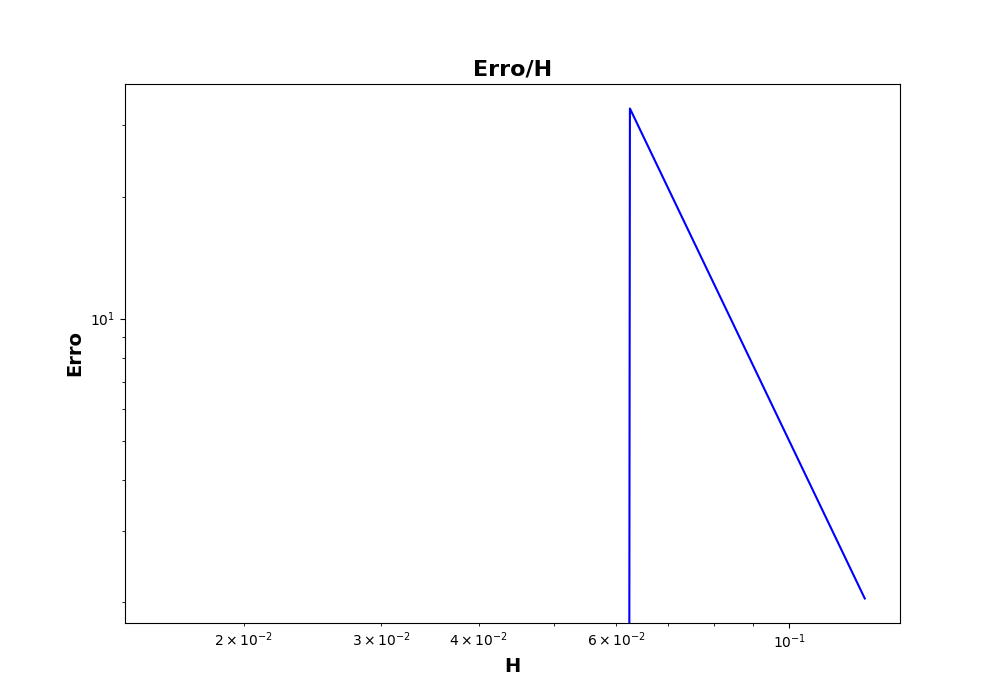
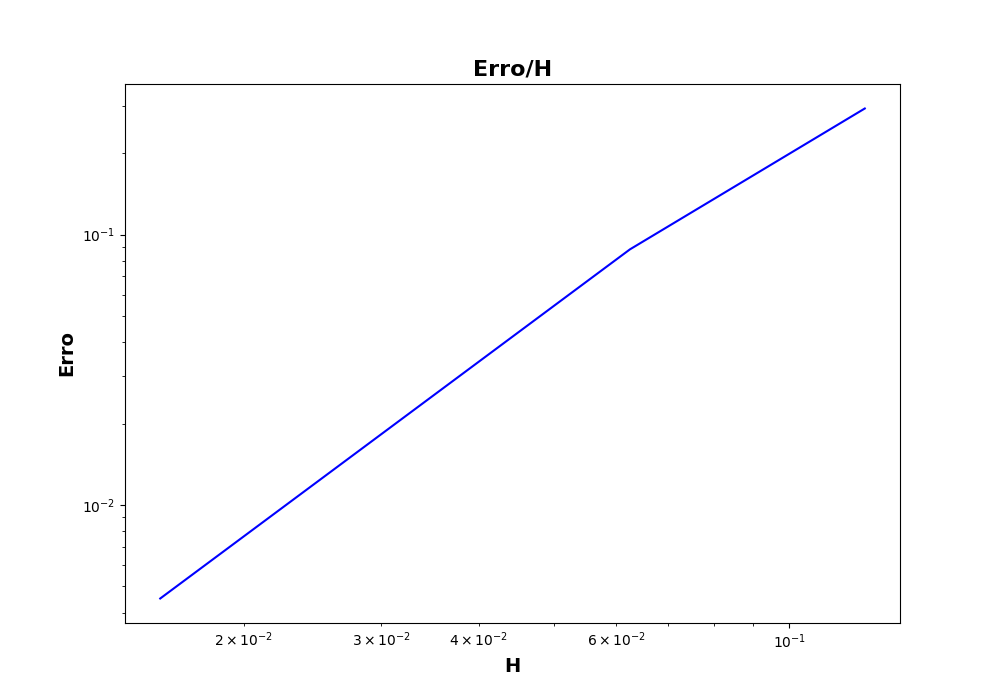
aeeeeee

diff --git a/01/functions.py b/01/functions.py
@@ -3,6 +3,8 @@ import pandas as pd
 import numpy as np
 import matplotlib.pyplot as plt
 from scipy import sparse
+from scipy.interpolate import interp2d
+from scipy.interpolate import RectBivariateSpline
 
 
 def imprime_matriz(A):
@@ -42,27 +44,20 @@ def tamanho_malha(a, b, h):
 
 def aprox_u(a, h, tam_malha, k_2):
     # Matriz identidade
-    # I = np.identity(tam_malha)
     I = sparse.identity(tam_malha, format='lil')
 
     # Matriz auxiliar 1
-    # I_1 = np.identity(tam_malha)
     I_1 = sparse.identity(tam_malha, format='lil')
 
     I_1[0, 0] = 0
     I_1[-1, -1] = 0
 
     # Matriz auxiliar 2
-    # I_2 = np.zeros((tam_malha, tam_malha))
     I_2 = sparse.lil_matrix((tam_malha, tam_malha))
-
-    # Atribuir valor zero para todos os elementos da matriz
-    # I_2.data = [[0] * I_2.shape[1]] * I_2.shape[0]
 
     I_h = I*(1/h/h)
 
     # Matriz T com condições de Neumann e com coeficientes do Método de diferenças finitas
-    # T = np.zeros((tam_malha, tam_malha))
     T = sparse.lil_matrix((tam_malha, tam_malha))
 
     T[0, 0] = (-(4-h))/(h*h) + k_2
@@ -136,30 +131,39 @@ def malhas_calc(a, b, h):
 
 
 # Função que calcula os valores_h
-def valores_h_calc(a, h, tam_malha, k_2):
+def valores_h_calc(a, b, h, k_2):
     valores_h = []
 
     for i in h:
-        valores_h.append(aprox_u(a, i, tam_malha, k_2))
+        valores_h.append(aprox_u(a, i, tamanho_malha(a, b, i), k_2))
 
     return valores_h
 
 
 # Função que calcula o vetor de truncamento
-def erro_calc(h, valores_referencia, valores_h):
+def erro_calc(a, b, h, valores_ref, valores_h, tam_malha):
     erros = []
 
+    # Definição dos dados
+    x = np.linspace(a, b, tam_malha)
+    y = np.linspace(a, b, tam_malha)
+
+    # Interpolação por spline cúbica
+    f_ref = interp2d(x, y, valores_ref, kind='cubic')
+
     for i in range(0, len(h)):
+        x_h = np.linspace(a, b, tamanho_malha(a, b, h[i]))
+        y_h = np.linspace(a, b, tamanho_malha(a, b, h[i]))
 
-        # TENTATIVA 1
-        erro_absoluto = np.abs(valores_referencia - valores_h[i])
-        norma_max = np.amax(np.abs(valores_referencia))
+        # Interpolação por spline cúbica
+        f_h = interp2d(x_h, y_h, valores_h[i], kind='cubic')
 
-        erro_relativo = np.amax(erro_absoluto) / norma_max
+        # # Calculando o erro
+        erro_absoluto = np.abs(f_ref(x_h, y_h) - f_h(x_h, y_h))
 
-        # TENTATIVA 2
-        # erro_relativo = np.linalg.norm(
-        #     valores_h[i] - valores_referencia)/np.linalg.norm(valores_referencia)
+        # Calculando a norma máxima
+        norma_max = np.amax(np.abs(erro_absoluto))
+        erro_relativo = norma_max/np.amax(np.abs(f_ref(x_h, y_h)))
 
         erros.append(erro_relativo)
 
@@ -184,3 +188,5 @@ def plot_erros(h, erro):
     plt.loglog(h, erro, color='blue')
 
     plt.savefig('resultados/erros_h.png')
+
+    return

diff --git a/01/main.py b/01/main.py
@@ -6,7 +6,7 @@ b = 1
 k_2 = 10
 
 # Cálculo da solução de referência
-h_ref = 1/64
+h_ref = 1/128
 tam_malha = tamanho_malha(a, b, h_ref)
 
 valores_ref = aprox_u(a, h_ref, tam_malha, k_2)
@@ -14,18 +14,17 @@ valores_ref = aprox_u(a, h_ref, tam_malha, k_2)
 # Grafico dos valores de referencia
 plot_referencia(a, b, tam_malha, valores_ref)
 
-# # Vetor dos valores de h
-# h = [1/64, 1/16, 1/8]
+# Vetor dos valores de h
+h = [1/64, 1/16, 1/8]
 
-# # Criação da malha e dos valores_h
-# valores_h = valores_h_calc(a, h, tam_malha, k_2)
+# Criação da malha e dos valores_h
+valores_h = valores_h_calc(a, b, h, k_2)
 
-# # Vetor dos truncamentos dos valores da malha analisada e da malha da solução de referência
-# erros = erro_calc(h, valores_ref, valores_h)
+# Vetor dos truncamentos dos valores da malha analisada e da malha da solução de referência
+erros = erro_calc(a, b, h, valores_ref, valores_h, tam_malha)
 
-# # Gerando tabela de resultados
-# # tabela_resultados(h, erro)
-# print(erros)
+# Gerando tabela de resultados
+# tabela_resultados(h, erro)
 
-# # Plotagem da convergência do método
-# plot_erros(h, erros)
+# Plotagem da convergência do método
+plot_erros(h, erros)
